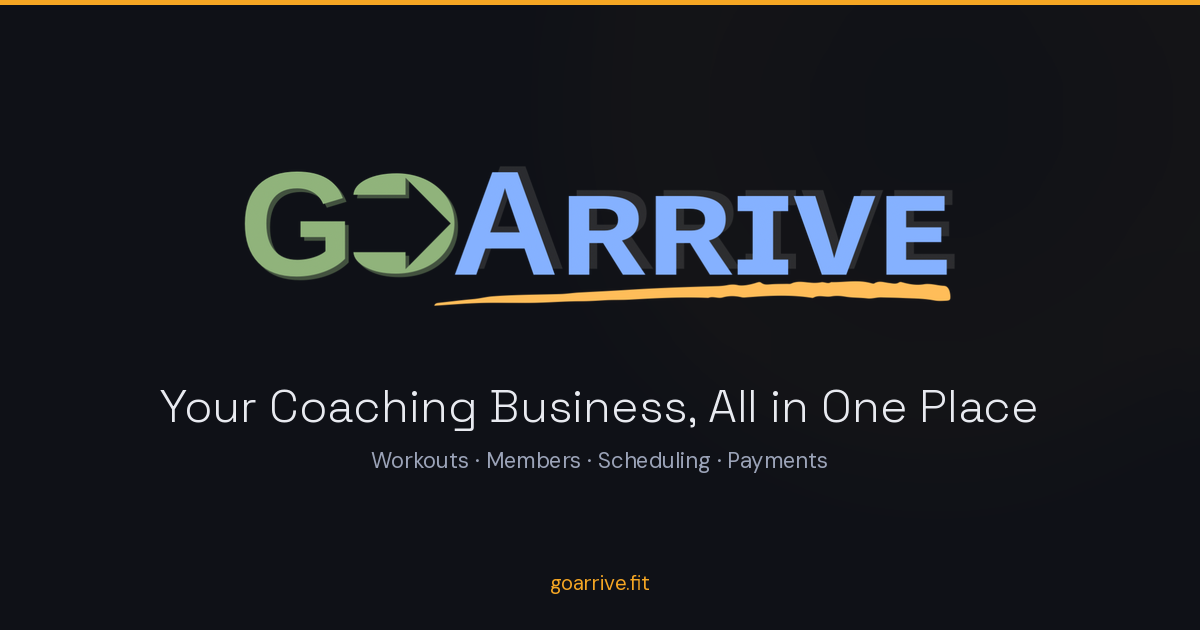
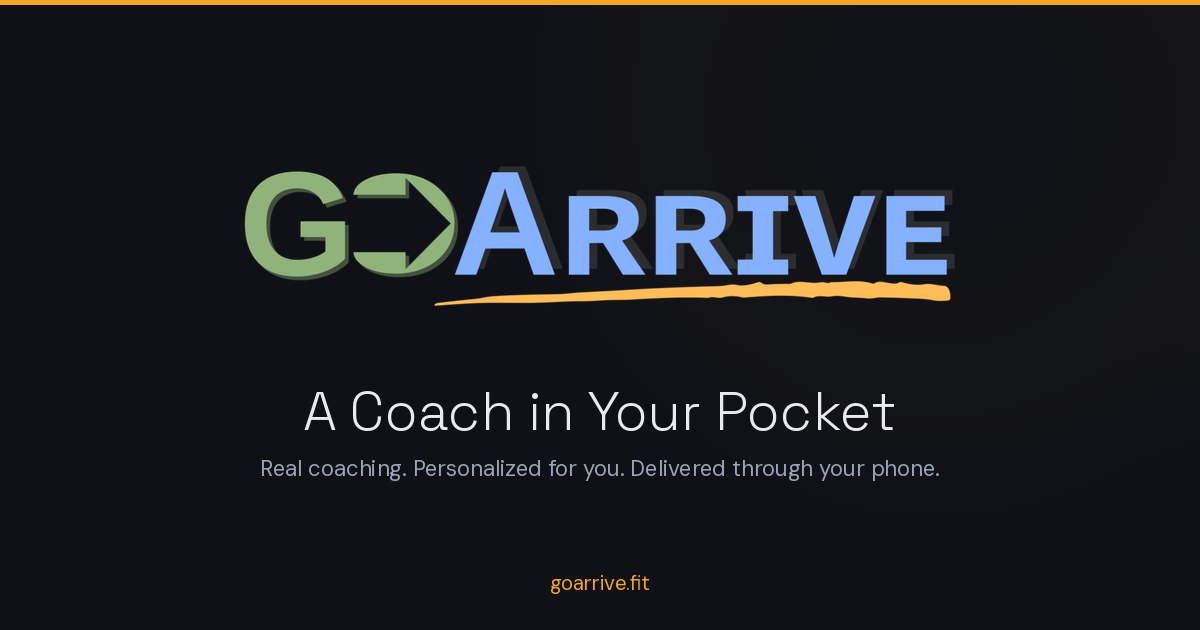
fix(social): switch preview copy to member-facing site hero
The first cut used coach-onboarding copy ("Your Coaching Business, All
in One Place"). The link previews are sales-facing for prospective
members, so mirror the actual member-facing hero on goarrive.fit/:

- Title: "GoArrive — A Coach in Your Pocket"
- Description: "Personal training designed by a real coach, delivered
  through your phone, built around your life."
- Sub on the card: "Real coaching. Personalized for you. Delivered
  through your phone."

Changed region(s): [[0.1233, 0.6032, 0.8633, 0.6937], [0.2158, 0.7238, 0.7708, 0.754]]

diff --git a/scripts/inject_pwa_meta.py b/scripts/inject_pwa_meta.py
@@ -26,13 +26,13 @@ INDEX = os.path.join(DIST_DIR, 'index.html')
 
 # ── Social preview config ────────────────────────────────────────────────────
 SITE_URL = os.environ.get('SITE_URL', 'https://goarrive.fit').rstrip('/')
-OG_TITLE = 'GoArrive — Your Coaching Business, All in One Place'
+OG_TITLE = 'GoArrive — A Coach in Your Pocket'
 OG_DESCRIPTION = (
-    'Build workouts, manage members, handle payments, and deliver a premium '
-    'experience — all from one platform for independent fitness coaches.'
+    'Personal training designed by a real coach, delivered through your phone, '
+    'built around your life.'
 )
 OG_IMAGE = f'{SITE_URL}/og-image.png'
-OG_IMAGE_ALT = 'GoArrive — Your Coaching Business, All in One Place'
+OG_IMAGE_ALT = 'GoArrive — A Coach in Your Pocket'
 
 # ── Manifest ─────────────────────────────────────────────────────────────────
 MANIFEST = """{

diff --git a/scripts/generate_og_image.py b/scripts/generate_og_image.py
@@ -61,18 +61,18 @@ def main():
     ly = 150
     img.paste(logo, (lx, ly), logo)
 
-    # Tagline (site language)
-    tagline_font = ImageFont.truetype(FONT_GROTESK, 46)
-    tagline = 'Your Coaching Business, All in One Place'
+    # Tagline (site hero language — member-facing)
+    tagline_font = ImageFont.truetype(FONT_GROTESK, 54)
+    tagline = 'A Coach in Your Pocket'
     tw = draw.textlength(tagline, font=tagline_font)
     tagline_y = ly + target_h + 60
     draw.text(((W - tw) // 2, tagline_y), tagline, font=tagline_font, fill=TEXT)
 
-    # Sub-line
+    # Sub-line (site hero sub)
     sub_font = ImageFont.truetype(FONT_DMSANS, 22)
-    sub = 'Workouts · Members · Scheduling · Payments'
+    sub = 'Real coaching. Personalized for you. Delivered through your phone.'
     sw = draw.textlength(sub, font=sub_font)
-    draw.text(((W - sw) // 2, tagline_y + 70), sub, font=sub_font, fill=MUTED)
+    draw.text(((W - sw) // 2, tagline_y + 78), sub, font=sub_font, fill=MUTED)
 
     # Footer URL
     url_font = ImageFont.truetype(FONT_DMSANS, 20)
